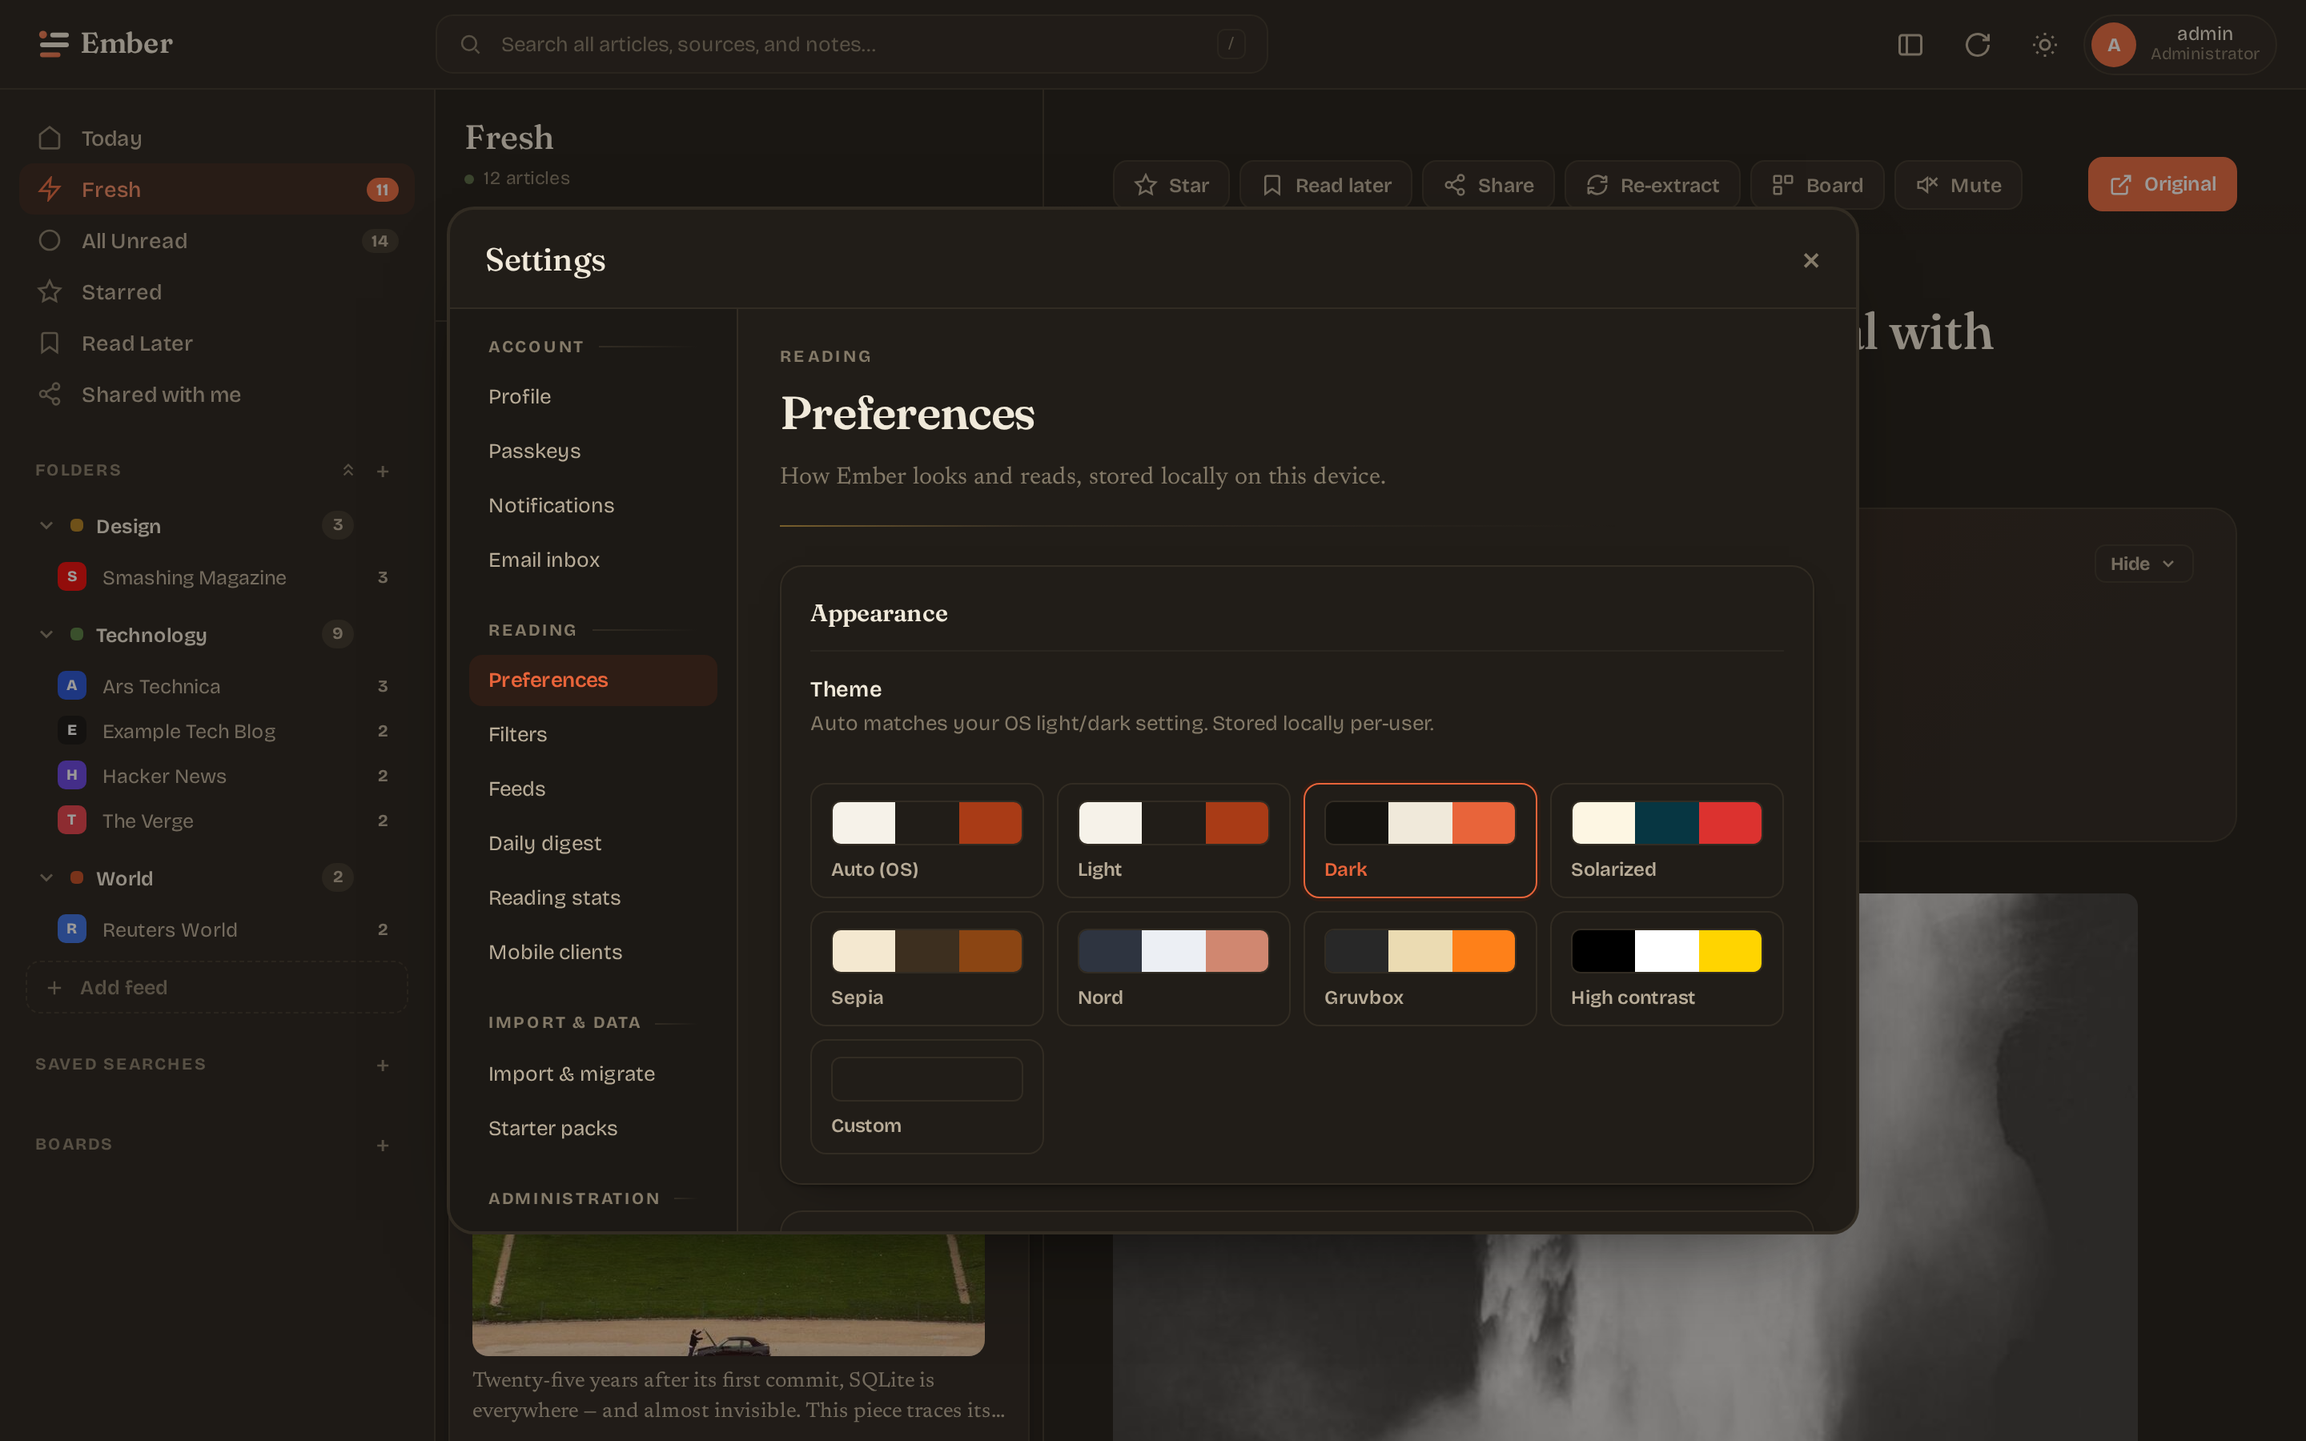
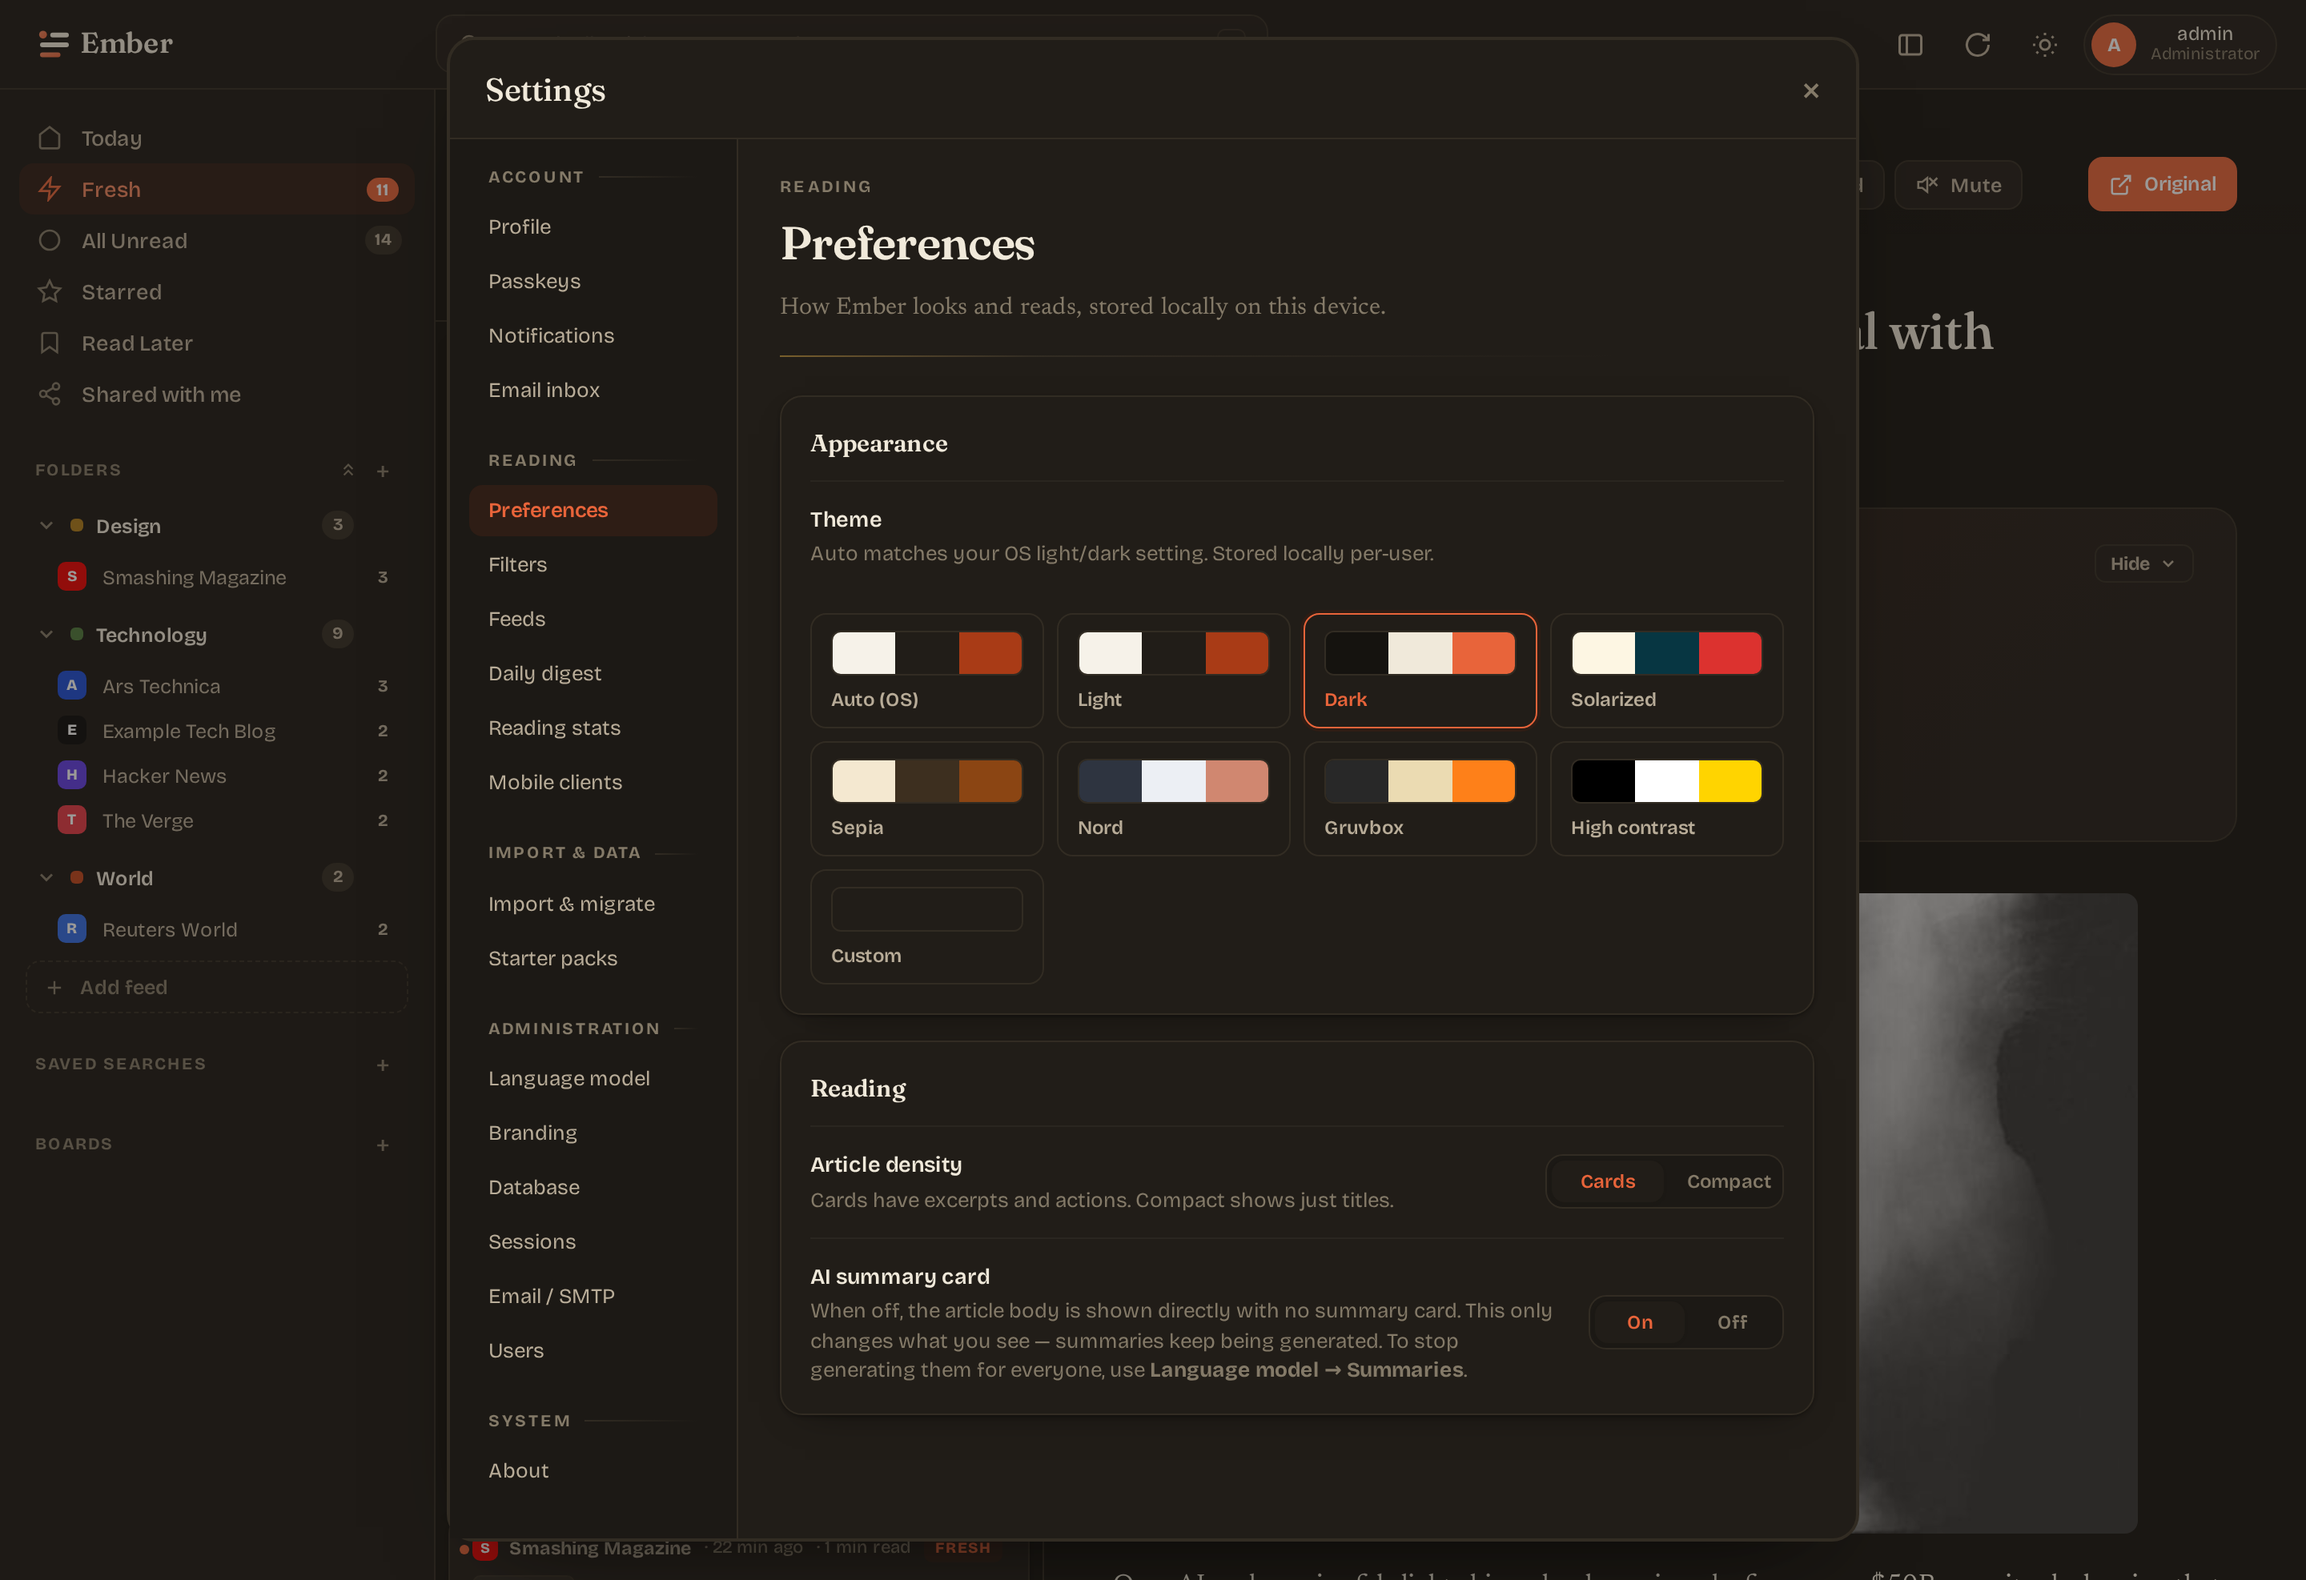
docs,web: regenerate screenshots for the summarization overhaul (#209)
## What

Regenerate the documentation screenshots in `docs/public/screenshots/`,
and capture the desktop settings panes at full height so they are no
longer clipped at their first card.

14 images updated (12 regenerated + the 2 hero copies). Two source files
change with them:

- `web/scripts/screenshots-dual-theme.mjs` — lift the settings modal's
height cap at capture time and grow the viewport to fit.
- `docs/screenshots.md` — update the two captions the new images
contradict.

## Why

The screenshots were last regenerated for **v0.9.4 on 2026-06-29**,
leaving them stale across **three releases** — v0.9.5, v0.9.6, and the
summarization overhaul (#198–#201). `web/src/components/Settings.svelte`
has taken 11 commits and +515/−20 lines in that window.

Two groups were demonstrably wrong rather than merely old:

- **`settings-llm-desktop-{light,dark}`** were captured with
`EMBER_DISABLE_SUMMARIES=1` set, so they showed an essentially **empty
pane** reading only "Summaries are disabled on this server
(EMBER_DISABLE_SUMMARIES=1)" — a string that no longer exists in the
app.
- **`settings-preferences-desktop-{light,dark}`** predated the extra
disambiguation sentence on the AI summary card hint.

## How

The settings modal is deliberately height-capped:

```css
.modal { height: min(640px, 86vh); }   /* Settings.svelte:3048 */
```

with an internally scrolling `.content`, which leaves a **576px**
window. The Language model pane is **~2450px** of content, and the five
[…]

diff --git a/docs/screenshots.md b/docs/screenshots.md
@@ -1,6 +1,6 @@
 # Screenshots
 
-Captured against the test-mode binary via `web/scripts/screenshots-dual-theme.mjs`. Each scene is captured twice — once in the app's light theme, once in dark — at both desktop (1440×900 @ 2x) and mobile (390×844 @ 3x) viewports. The docs site shows the **opposite** variant — a light page displays the dark-theme capture and a dark page the light-theme capture (via the `.light-only` / `.dark-only` classes in the theme stylesheet) — so the screenshot contrasts the page background instead of blending into it.
+Captured against the test-mode binary via `web/scripts/screenshots-dual-theme.mjs`. Each scene is captured twice — once in the app's light theme, once in dark — at both desktop (1440×900 @ 2x) and mobile (390×844 @ 2x) viewports. Desktop settings panes are the exception: the modal's height cap is lifted at capture time and the viewport grown to fit, so each pane is shown whole instead of cut off at its first card. The docs site shows the **opposite** variant — a light page displays the dark-theme capture and a dark page the light-theme capture (via the `.light-only` / `.dark-only` classes in the theme stylesheet) — so the screenshot contrasts the page background instead of blending into it.
 
 ## Three-pane reader
 
@@ -25,7 +25,7 @@ Theme picker (8 presets + custom palette), density toggle, AI summary card on/of
 
 ## Settings — language model (admin)
 
-Host probe (RAM/CPU/GPU) with a model recommendation. Installed-model table with per-row switch + delete. Pull form for new models. Sliders for temperature, top_p, num_ctx.
+Summaries on/off and the summarize mode (every article, or only the ones you mark), the summarization queue with drain + requeue, and the backend picker — Ollama, OpenAI-compatible, or Claude. Below those: the article-visibility windows (grace period and summary timeout), host probe (RAM/CPU/GPU) with a model recommendation, installed-model table with per-row switch + delete, pull form for new models, and sliders for temperature, top_p, num_ctx.
 
 <img src="./public/screenshots/settings-llm-desktop-light.png" alt="Settings language model (light)" class="dark-only">
 <img src="./public/screenshots/settings-llm-desktop-dark.png"  alt="Settings language model (dark)"  class="light-only">
